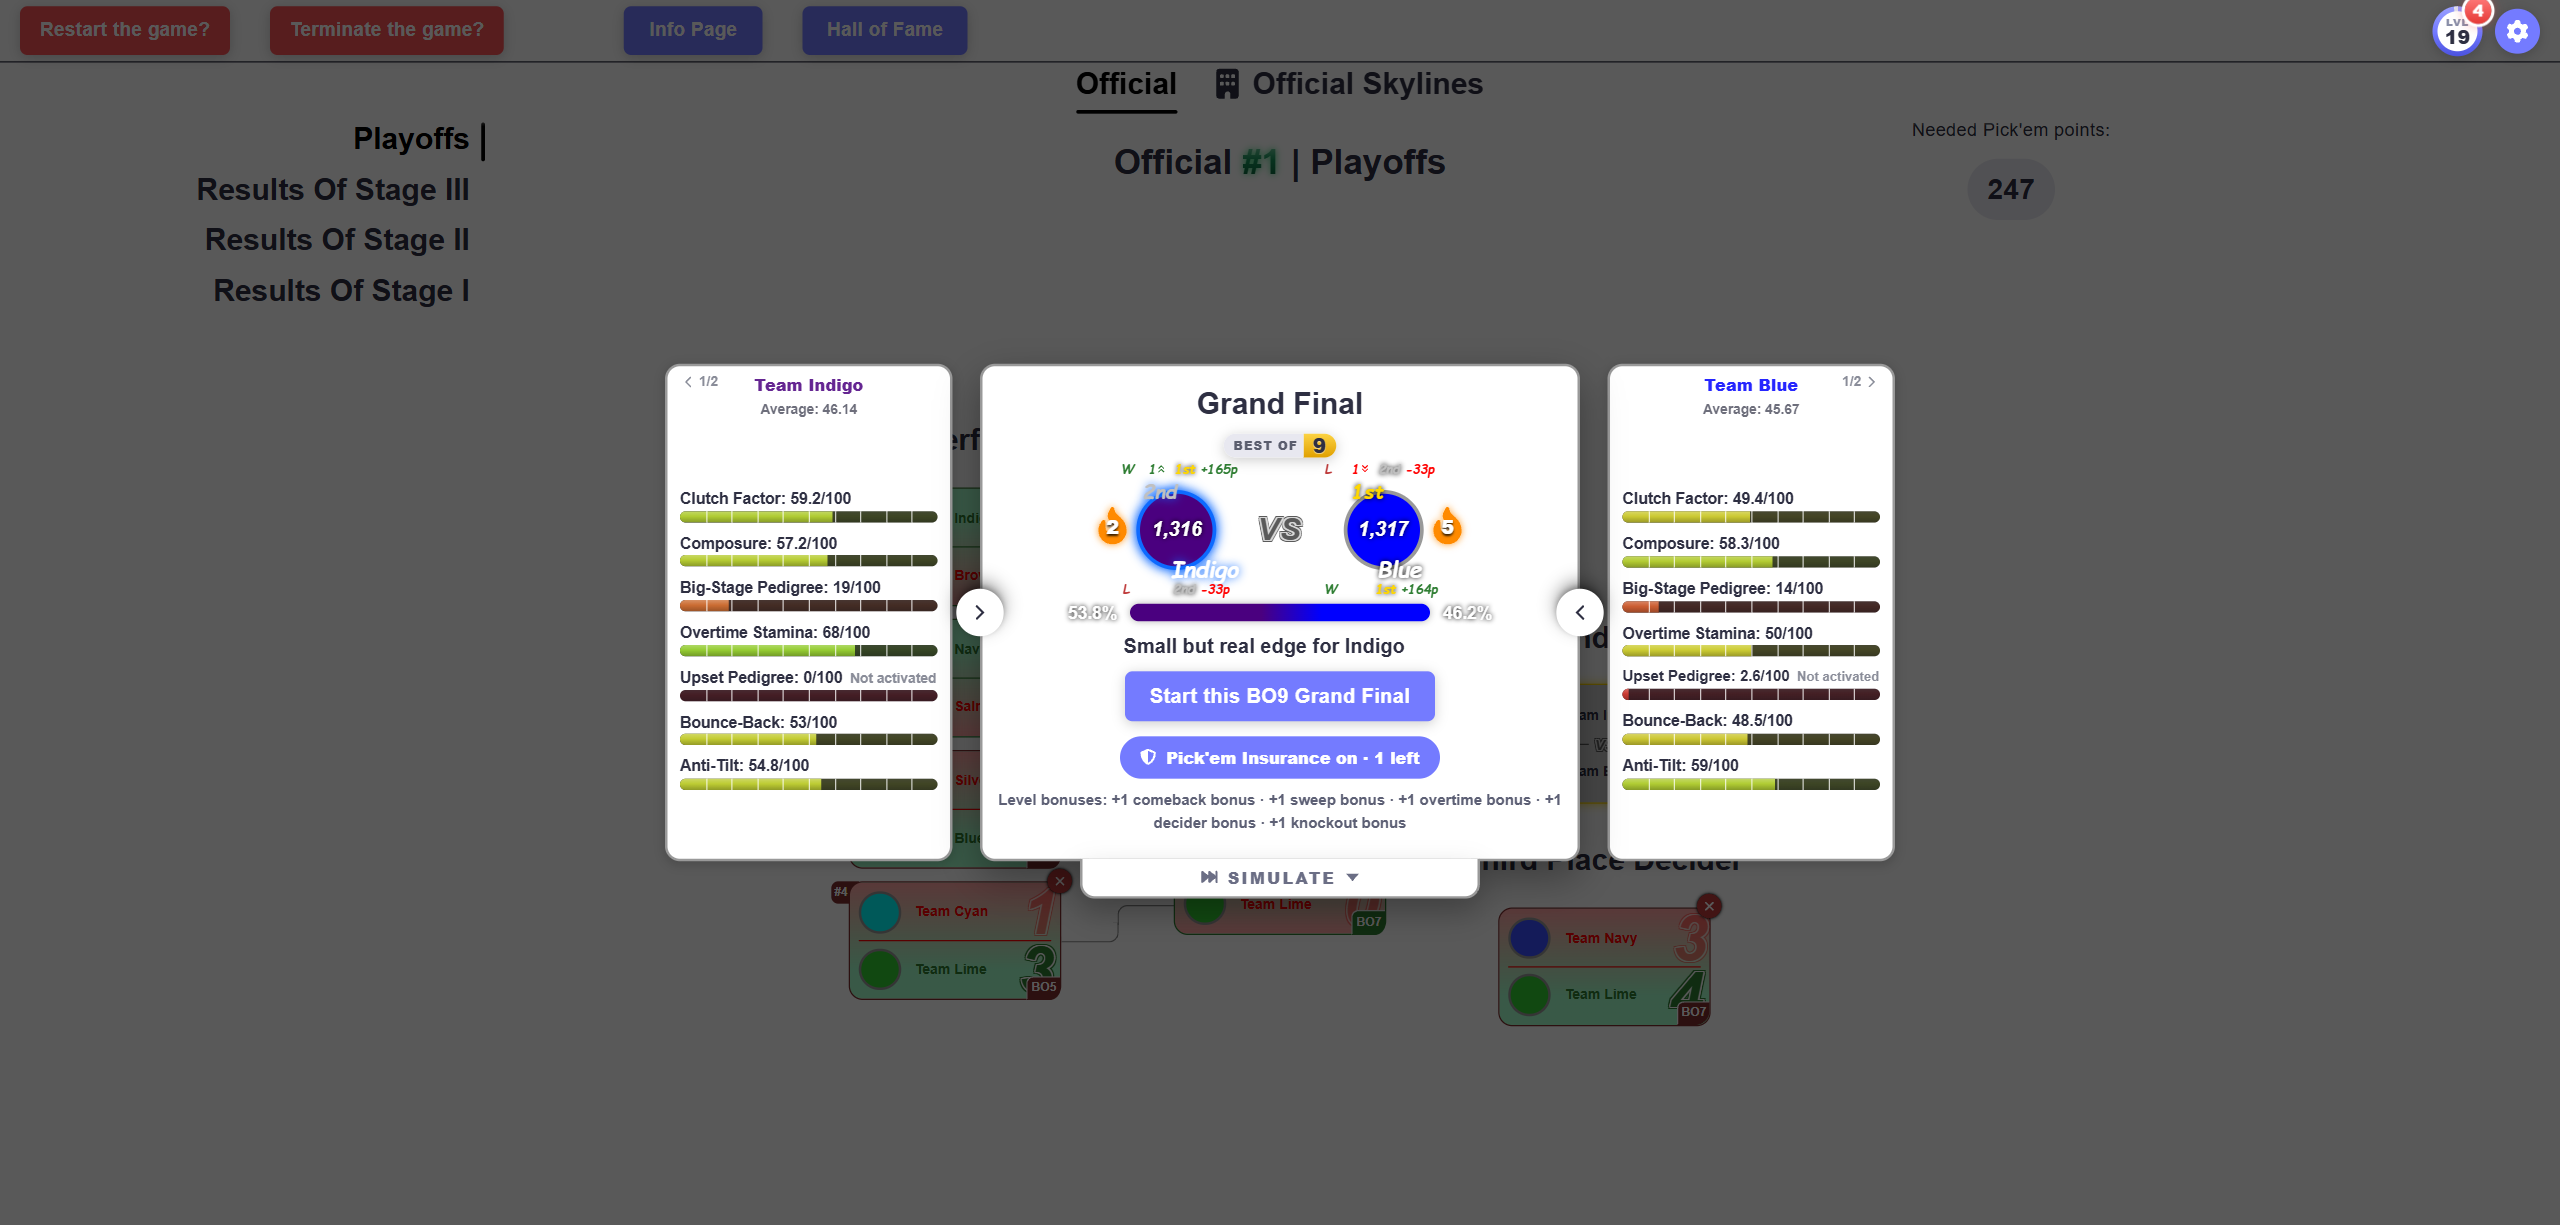
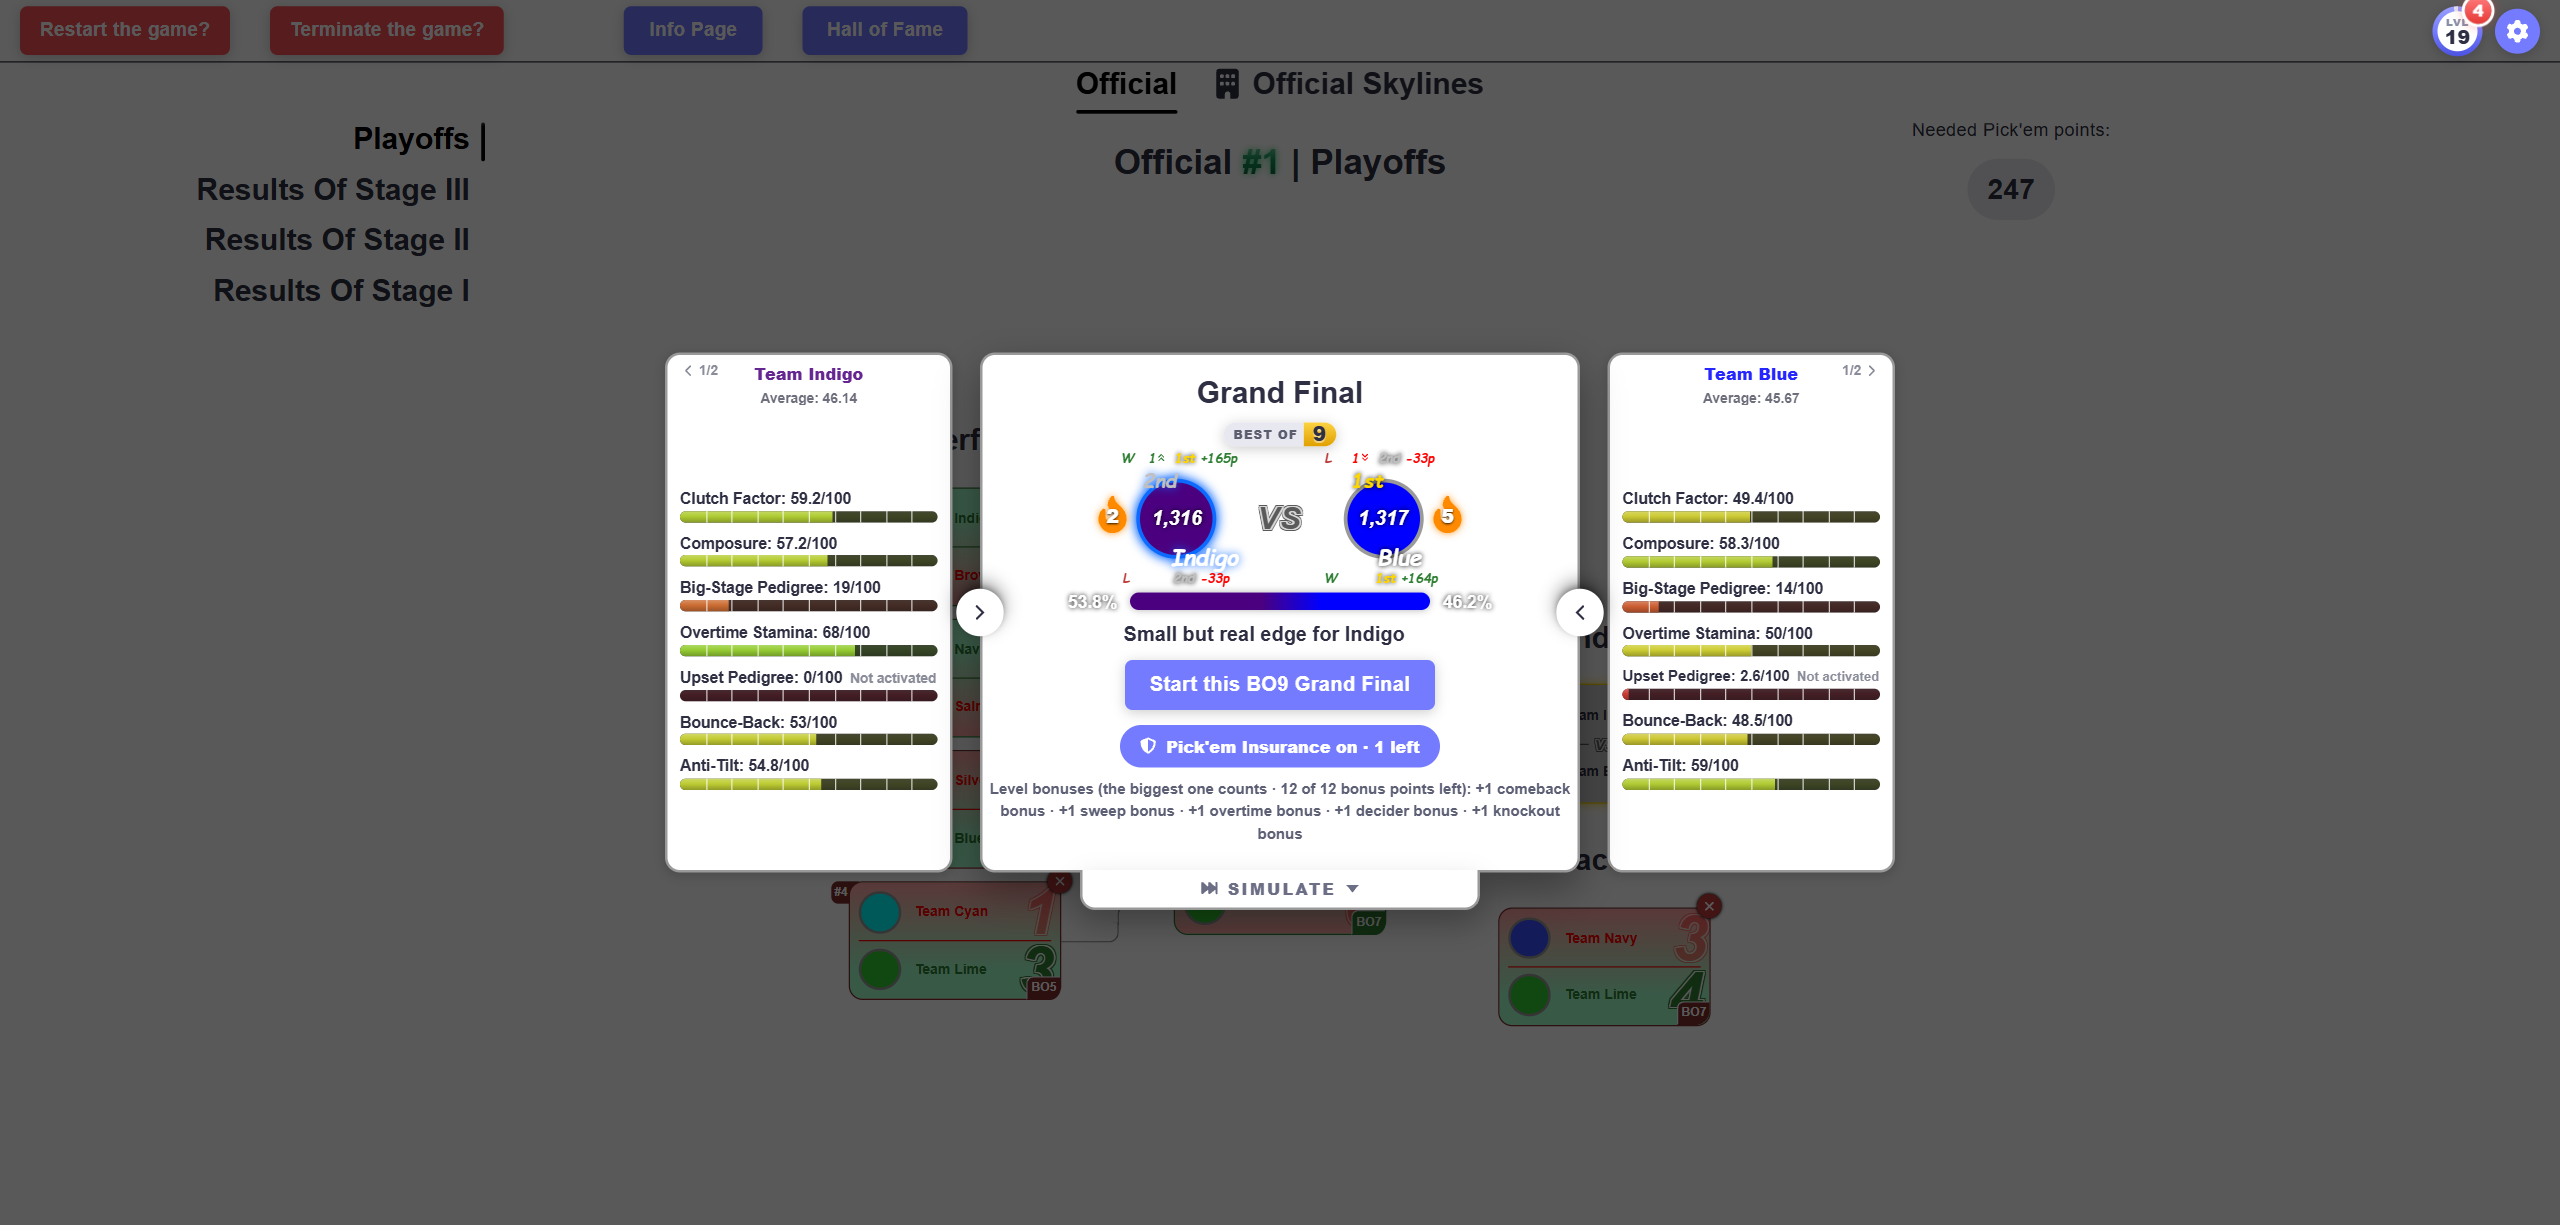
balance changes: now there is a cap for bonus Pick'em Points to obtain throughout a single tournament. For details, Info Page!

Changed region(s): [[0.25, 0.2792, 0.75, 0.7445]]

diff --git a/src/pages/SpecialModePage/progress/progressStore.js b/src/pages/SpecialModePage/progress/progressStore.js
@@ -8,6 +8,8 @@ import {
     STREAK_STEP,
     UPSET_CHANCE,
     applyNeededPerk,
+    bonusCapPoints,
+    bonusPointsUsed,
     levelInfo,
     perksForLevel,
 } from "./progressConfig.js";
@@ -128,10 +130,24 @@ export const progressSetInsuranceArmed = (armed) => {
     publish();
 };
 
-const PICK_PERK_KEYS = ["insured", "insurePct", "gfBonus", "upsetBonus", "longShotBonus", "streakBonus", "comebackBonus", "sweepBonus", "overtimeBonus", "deciderBonus", "knockoutBonus", "longSeriesBonus"];
+const PICK_PERK_KEYS = ["insured", "insurePct", "bonusCap", "bonusLeft", "gfBonus", "upsetBonus", "longShotBonus", "streakBonus", "comebackBonus", "sweepBonus", "overtimeBonus", "deciderBonus", "knockoutBonus", "longSeriesBonus"];
 
-export const progressBuildPickPerks = ({ chance, stage, label = "", bestOf = 1, roundKey = null, knockout = false }) => {
+export const progressSetNeeded = (points) => {
+    const needed = Number.isFinite(points) ? points : null;
+    if (ui.needed === needed) return;
+    setUi({ needed });
+    publish();
+};
+
+export const progressBonusCap = (state = progress, needed = ui.needed) => {
+    const pct = perksForLevel(levelInfo(state.xp).level).bonusCap;
+    const cap = bonusCapPoints(needed, pct);
+    return { pct, cap, left: Math.max(0, cap - bonusPointsUsed(state.event)) };
+};
+
+export const progressBuildPickPerks = ({ chance, stage, label = "", bestOf = 1, roundKey = null, knockout = false, needed = ui.needed }) => {
     const perks = currentPerks();
+    const cap = progressBonusCap(progress, needed);
     const insured = ui.insuranceArmed && insuranceLeft() > 0 && bestOf >= INSURANCE_MIN_BEST_OF;
     const known = Number.isFinite(chance);
     const pick = {
@@ -153,6 +169,8 @@ export const progressBuildPickPerks = ({ chance, stage, label = "", bestOf = 1, 
         deciderBonus: bestOf >= 3 ? perks.deciderBonus : 0,
         knockoutBonus: knockout ? perks.knockoutBonus : 0,
         longSeriesBonus: bestOf >= 5 ? perks.longSeriesBonus : 0,
+        bonusCap: cap.cap,
+        bonusLeft: cap.left,
     };
     let next = ensureEvent(progress);
     if (insured) next = { ...next, event: { ...next.event, insuranceUsed: (next.event.insuranceUsed ?? 0) + 1 } };

diff --git a/src/pages/SpecialModePage/progress/progressConfig.js b/src/pages/SpecialModePage/progress/progressConfig.js
@@ -305,6 +305,7 @@ const PERK_SCHEDULE = {
     deciderBonus: [[13, 1], [105, 2], [260, 3], [560, 4], [880, 5]],
     knockoutBonus: [[16, 1], [120, 2], [290, 3], [610, 4], [910, 5]],
     longSeriesBonus: [[24, 1], [130, 2], [310, 3], [620, 4], [940, 5]],
+    bonusCap: [[6, 5], [20, 7], [40, 10], [75, 12], [100, 14], [175, 16], [250, 18], [350, 20], [500, 22], [750, 23], [1000, 25]],
     achievementBoost: [[4, 5], [33, 10], [66, 15], [115, 20], [170, 25], [240, 30], [400, 40], [650, 50], [1000, 75]],
 };
 
@@ -335,6 +336,7 @@ export const NO_PERKS = {
     deciderBonus: 0,
     knockoutBonus: 0,
     longSeriesBonus: 0,
+    bonusCap: 0,
     achievementBoost: 0,
 };
 
@@ -356,9 +358,16 @@ export const perkLines = (set) => [
     set.deciderBonus && `+${set.deciderBonus} Pick'em ${s(set.deciderBonus, "point")}, when your pick wins a series that goes to its last possible set`,
     set.knockoutBonus && `+${set.knockoutBonus} Pick'em ${s(set.knockoutBonus, "point")} for every correct pick in a knockout match`,
     set.longSeriesBonus && `+${set.longSeriesBonus} Pick'em ${s(set.longSeriesBonus, "point")} for a correct pick in a Best of 5 or longer`,
+    set.bonusCap && `Bonus Pick'em points: up to ${set.bonusCap}% of the needed ones per tournament (only the biggest bonus counts on a pick)`,
     set.xpBoost && `+${set.xpBoost}% XP from every series and tournament`,
     set.achievementBoost && `+${set.achievementBoost}% XP from achievements`,
 ].filter(Boolean);
+
+export const BONUS_PERK_TYPES = ["gfBonus", "upsetBonus", "longShotBonus", "streakBonus", "comebackBonus", "sweepBonus", "overtimeBonus", "deciderBonus", "knockoutBonus", "longSeriesBonus"];
+
+export const bonusCapPoints = (needed, pct) => (pct && Number.isFinite(needed) && needed > 0 ? Math.max(1, Math.round((needed * pct) / 100)) : 0);
+
+export const bonusPointsUsed = (event) => (event?.perkUses ?? []).reduce((sum, use) => sum + (BONUS_PERK_TYPES.includes(use.type) ? use.points || 0 : 0), 0);
 
 export const applyNeededPerk = (points, level) => {
     const cut = perksForLevel(level).needed;

diff --git a/src/pages/SpecialModeInfoPage/SpecialModeInfoPage.jsx b/src/pages/SpecialModeInfoPage/SpecialModeInfoPage.jsx
@@ -1552,7 +1552,8 @@ const OfficialSubPage = ({ scrollToAnchor }) => (
                 The level isn&apos;t only a number, though. Every few levels unlock a <b>level benefit</b>, and all of them are about the Pick&apos;em (and the XP itself), so the matches themselves are never touched.
                 The most important one is the <b>Pick&apos;em Insurance</b>, which comes at Level 5. In every match window of a Best of 3 or longer, there is a button "Pick&apos;em Insurance off · 1 left" below the "Start" button, and a click switches it on.
                 If my insured pick loses, the insurance wins back a share of the Pick&apos;em points, which I&apos;ve missed (50% at first, rounded down, and more with higher levels). If that share is 0, because my team already took enough sets, the insurance comes back to me. And if my insured pick wins, it&apos;s used up anyway.
-                Below it, the "Level bonuses" line tells, which extra Pick&apos;em points this match can still give me (for example +1 for a comeback, a sweep, an Overtime or a knockout match). Here, in the Grand Final, I insured my pick on Team Indigo:
+                Below it, the "Level bonuses" line tells, which extra Pick&apos;em points this match can still give me (for example +1 for a comeback, a sweep, an Overtime or a knockout match). But only the biggest of them counts on a pick, and all the bonus points of a tournament together can&apos;t be more than a share of the needed Pick&apos;em points (5% from Level 6 on, up to 25% at Level 1000), so the line also tells how many of them are still left.
+                That way, the bonuses help a bit, but the Pick&apos;em challenge stays a challenge. Here, in the Grand Final, I insured my pick on Team Indigo:
             </p>
             <LevelShot n={1} alt="Match modal of the Grand Final with the Pick'em Insurance switched on and the level bonuses below it" width="35vw" />
             <p className={css.info_text}>

diff --git a/src/pages/SpecialModePage/progress/PickPerksStrip.jsx b/src/pages/SpecialModePage/progress/PickPerksStrip.jsx
@@ -2,11 +2,12 @@ import { useEffect } from "react";
 import { FaHeart, FaShieldHalved } from "react-icons/fa6";
 import css from "./Progress.module.css";
 import { INSURANCE_MIN_BEST_OF, STREAK_STEP, UPSET_CHANCE, levelInfo, perksForLevel } from "./progressConfig.js";
-import { progressSetInsuranceArmed, useProgress } from "./progressStore.js";
+import { progressBonusCap, progressSetInsuranceArmed, useProgress } from "./progressStore.js";
 
 export function PickPerksStrip({ stage, bestOf = 1, knockout = false }) {
     const { progress, ui } = useProgress();
     const perks = perksForLevel(levelInfo(progress.xp).level);
+    const bonus = progressBonusCap(progress, ui.needed);
     const left = Math.max(0, perks.insurance - (progress.event?.insuranceUsed ?? 0));
     const insurable = bestOf >= INSURANCE_MIN_BEST_OF;
     const streak = progress.stats.streak ?? 0;
@@ -67,7 +68,16 @@ export function PickPerksStrip({ stage, bestOf = 1, knockout = false }) {
                     {shieldText}
                 </span>
             ) : null}
-            {hints.length ? <span className={css.perk_hint}>Level bonuses: {hints.join(" · ")}</span> : null}
+            {hints.length ? (
+                <span
+                    className={css.perk_hint}
+                    title={bonus.cap ? `Only the biggest bonus counts on a pick, and all bonus Pick'em points of a tournament can't be more than ${bonus.pct}% of the needed ones (${bonus.cap}).` : undefined}
+                >
+                    {bonus.cap && !bonus.left
+                        ? `Level bonuses used up in this tournament (${bonus.cap} of ${bonus.cap} bonus points)`
+                        : <>Level bonuses (the biggest one counts{bonus.cap ? ` · ${bonus.left} of ${bonus.cap} bonus points left` : ""}): {hints.join(" · ")}</>}
+                </span>
+            ) : null}
         </div>
     );
 }

diff --git a/src/pages/SpecialModePage/progress/pickPerks.js b/src/pages/SpecialModePage/progress/pickPerks.js
@@ -7,10 +7,9 @@ export const resolvePickPerks = ({ correct, bestOf, base, setsWon = [], setScore
     let points = base;
     if (!perks) return { points, uses, insurance: null, payout: 0 };
     if (correct) {
+        const earned = [];
         const add = (type, value) => {
-            if (!value) return;
-            points += value;
-            uses.push({ type, points: value });
+            if (value) earned.push({ type, points: value });
         };
         BONUS_KEYS.forEach((key) => add(key, perks[key]));
         if (bestOf >= 3 && setsWon[0] === false) add("comebackBonus", perks.comebackBonus);
@@ -19,6 +18,18 @@ export const resolvePickPerks = ({ correct, bestOf, base, setsWon = [], setScore
         if (bestOf >= 3 && setsWon.length >= bestOf) add("deciderBonus", perks.deciderBonus);
         add("knockoutBonus", perks.knockoutBonus);
         if (bestOf >= 5) add("longSeriesBonus", perks.longSeriesBonus);
+        const kept = perks.bonusCap
+            ? earned.reduce((best, use) => (!best || use.points > best.points ? use : best), null)
+            : null;
+        const granted = perks.bonusCap
+            ? kept && Math.min(kept.points, perks.bonusLeft ?? 0) > 0
+                ? [{ type: kept.type, points: Math.min(kept.points, perks.bonusLeft ?? 0) }]
+                : []
+            : earned;
+        granted.forEach((use) => {
+            points += use.points;
+            uses.push(use);
+        });
         return { points, uses, insurance: perks.insured ? "used" : null, payout: 0 };
     }
     if (!perks.insured) return { points, uses, insurance: null, payout: 0 };

diff --git a/src/pages/SpecialModePage/progress/ProgressScreen.jsx b/src/pages/SpecialModePage/progress/ProgressScreen.jsx
@@ -87,7 +87,8 @@ function LevelTab({ progress }) {
             <p className={css.note} style={{ marginTop: 10 }}>
                 Every benefit only changes your Pick&apos;em and your XP: the matches themselves are never touched. The Pick&apos;em Insurance is switched on in the match modal, right before you start a
                 Best of {INSURANCE_MIN_BEST_OF} or longer. If your insured pick loses, it wins back a share of the Pick&apos;em points it missed (rounded down). If that share is 0, for example after 1:2 in a
-                Best of 3 (the won set already gave 2 out of 3 points), the insurance comes back to you. If your insured pick wins, the insurance is used up.
+                Best of 3 (the won set already gave 2 out of 3 points), the insurance comes back to you. If your insured pick wins, the insurance is used up. Of the bonus Pick&apos;em points, only the biggest one counts on every
+                pick, and all of them together can&apos;t be more than your bonus cap of the tournament (a share of the needed Pick&apos;em points, which grows with your level).
             </p>
 
             <h3 className={css.section_title}>How to earn XP</h3>

diff --git a/src/pages/SpecialModePage/SpecialModePage.jsx b/src/pages/SpecialModePage/SpecialModePage.jsx
@@ -234,6 +234,7 @@ import {
     progressOpenSummaryThen,
     progressRestoreSnapshot,
     progressSeriesFinished,
+    progressSetNeeded,
     progressTakeSnapshot,
 } from "./progress/progressStore.js";
 import { schedulePristineCapture } from "./progress/resetStorage.js";
@@ -704,6 +705,10 @@ function SpecialModeContent() {
 
     const [neededPickemPoints, setNeededPickemPoints] = useState(() => progressNeededPreview(getRandomNeededPickemPoints()));
     const [finalPickemPoints, setFinalPickemPoints] = useState(0);
+
+    useEffect(() => {
+        progressSetNeeded(neededPickemPoints);
+    }, [neededPickemPoints]);
 
     const [hoveredTeamId, setHoveredTeamId] = useState(null);
 
@@ -3293,6 +3298,7 @@ function SpecialModeContent() {
             bestOf: modalBestOf,
             roundKey: `${modalContext.type}|${modalContext.group ?? ""}|${modalContext.section ?? ""}|${modalContext.stage ?? modalContext.net ?? ""}`,
             knockout: !["swiss", "gccLeague", "cstGroup"].includes(modalContext.type),
+            needed: neededPickemPoints,
         });
 
         if (modalContext.type === "swiss") {
